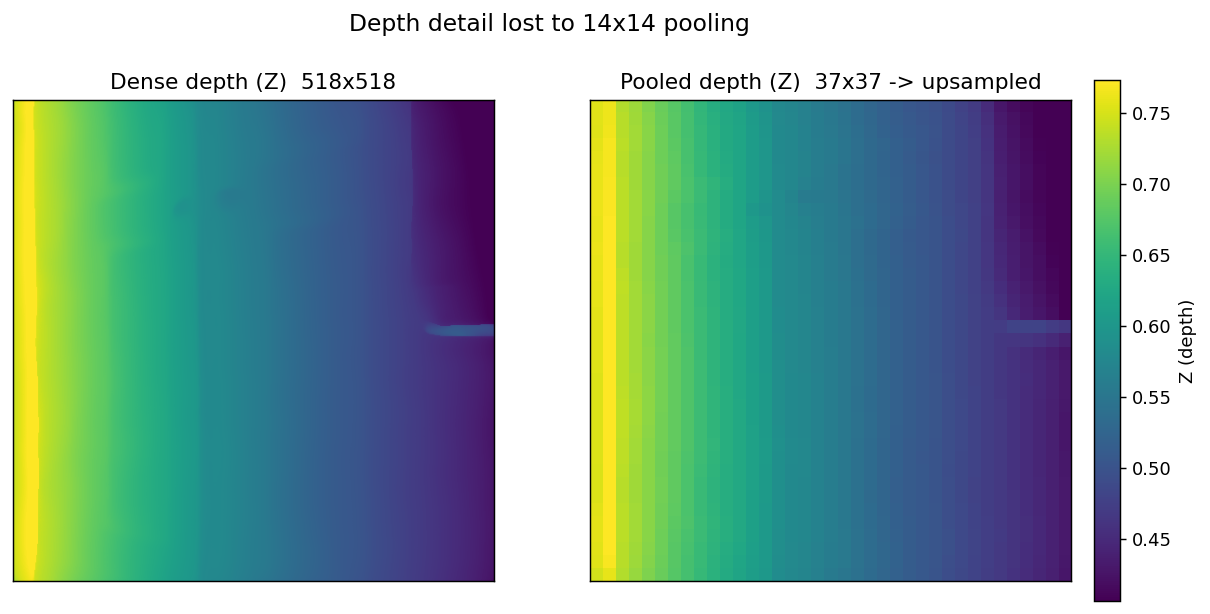
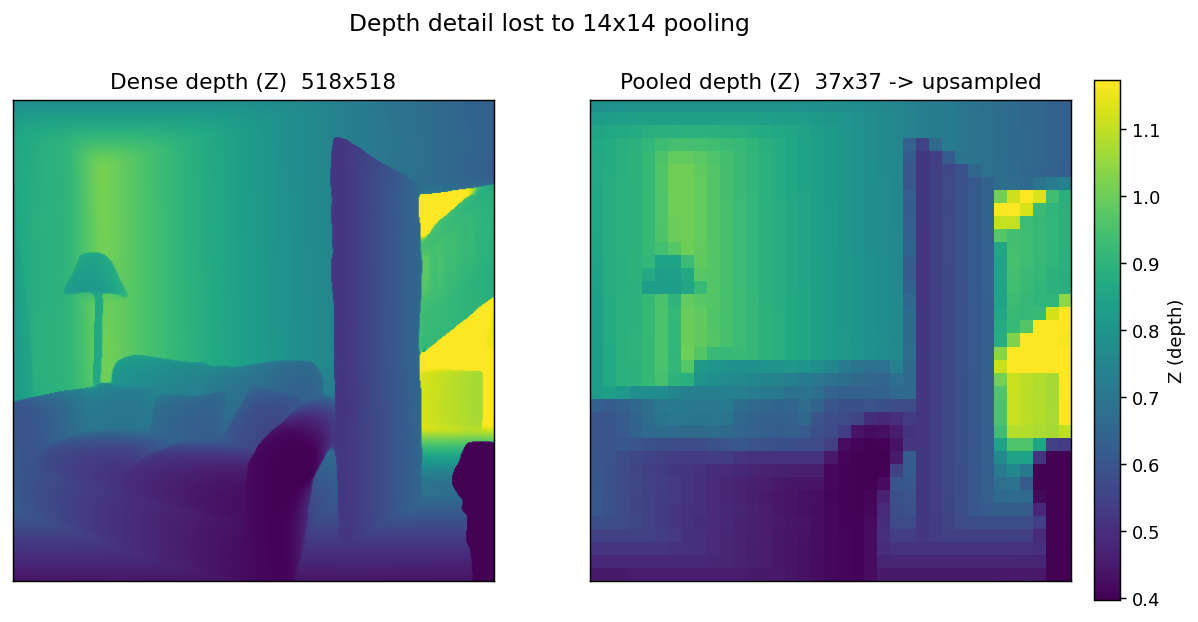
3D-48: regenerate WP-resolution figures on a real L1 room frame
- Use real L1 navigation frame episode_009/step_038 (living room with
  lamp, sofa, doorway) instead of the flat door fixture; pooling loss is
  now clearly visible at depth edges.
- dump script: add --dtype {bf16,fp32}. fp32 takes JAX's portable xla
  attention path so the dense map can be captured on CPU (no GPU/cuDNN),
  sidestepping the torch/jaxlib cuDNN conflict on the cluster.
- figure script: auto-highlight the most depth-variable patch cell in the
  grid-overlay and block-zoom figures.
- new sbatch dump_wp_l1_frame038 (kept for provenance).
- docs HTML: update stats to this frame (std up to 0.30 in depth, scene
  span ~2.1, pooled==mean to 8e-7) and provenance.

diff --git a/docs/3d48-vggt-wp-size.html b/docs/3d48-vggt-wp-size.html
@@ -103,7 +103,7 @@
       <span class="pill">issue&nbsp;<b>3D-48</b></span>
       <span class="pill">branch&nbsp;<b>lucasailerls/3d-48-…</b></span>
       <span class="pill">spun&nbsp;off&nbsp;<b>3D-53</b></span>
-      <span class="pill">real&nbsp;frame&nbsp;<b>H100 job 4861360</b></span>
+      <span class="pill">real&nbsp;frame&nbsp;<b>L1 ep_009/step_038</b></span>
       <span class="pill"><b>196×</b>&nbsp;point reduction</span>
     </div>
   </div>
@@ -134,7 +134,7 @@
       <li>Our wrapper then <b>average-pools each 14×14 patch block</b> into a single point <span class="arrow">→</span> <span class="hl-b">37×37×3</span>, a <b>196× point reduction</b>, and feeds that to R2Dreamer.</li>
       <li>So this is <b>not a VGGT bug and not a paper-misreading</b>. It is an <b>engineering subsample we added</b>, to keep the feature vector at <code>37·37·3 + 9 = 4116</code> dims.</li>
     </ul>
-    <p style="margin-bottom:0">The pooling is exactly the <code>adaptive_avg_pool</code> over each patch cell — we verified <code>pooled == 14×14&nbsp;mean</code> to <code>4e-7</code> on a real frame.</p>
+    <p style="margin-bottom:0">The pooling is exactly the <code>adaptive_avg_pool</code> over each patch cell — we verified <code>pooled == 14×14&nbsp;mean</code> to <code>8e-7</code> on a real frame.</p>
   </div>
 </section>
 
@@ -204,8 +204,8 @@ return {<span class="s">"world_points"</span>: world_points_out, <span class="s"
 
 <!-- ============================================================ -->
 <section id="visual">
-  <h2><span class="n">04</span>Visual evidence — on a real Habitat frame</h2>
-  <p>We ran the model once (H100, job 4861360) on a real Habitat observation and captured <em>both</em> resolutions from the same forward pass. Everything below is real data, not a mock-up.</p>
+  <h2><span class="n">04</span>Visual evidence — on a real L1 frame</h2>
+  <p>We ran the model on a real L1 navigation frame (the chair-only HM3D house, <code>episode_009/step_038</code> — a living room with a lamp, sofa, and a doorway to a brighter room) and captured <em>both</em> resolutions from the same forward pass. Everything below is real data, not a mock-up.</p>
 
   <figure>
     <img src="images/3d48/fig_grid_overlay.png" alt="Input RGB with 37x37 patch grid overlay">
@@ -245,9 +245,9 @@ return {<span class="s">"world_points"</span>: world_points_out, <span class="s"
   <div class="stat-row">
     <div class="stat"><div class="v">3.22 MB</div><div class="l">dense, per frame</div></div>
     <div class="stat"><div class="v">16.4 KB</div><div class="l">pooled, per frame</div></div>
-    <div class="stat"><div class="v">4e-7</div><div class="l">max |pooled − block-mean|</div></div>
+    <div class="stat"><div class="v">8e-7</div><div class="l">max |pooled − block-mean|</div></div>
   </div>
-  <p><b>How much signal is actually lost?</b> Within each 14×14 cell the XYZ standard deviation averages <code>≈0.008</code> (X,Y) and <code>0.003</code> (Z), but spikes to <code>0.036</code> at edges — against a scene that spans only ~1.4 units. So pooling is near-lossless on flat surfaces and lossy precisely at object boundaries and depth steps (Figs 3, 5). The <b>3.22 MB → 16.4 KB</b> gap is also why naively storing dense WP would blow up the offline buffer ~196× — the trade-off tracked in <b>3D-53</b>.</p>
+  <p><b>How much signal is actually lost?</b> Within each 14×14 cell the XYZ standard deviation averages <code>≈0.013</code> (X), <code>0.010</code> (Y), <code>0.016</code> (Z), but spikes to <code>0.30</code> in depth at edges — against a scene that spans ~2.1 units. So pooling is near-lossless on flat surfaces and lossy precisely at object boundaries and depth steps like the doorway (Figs 3, 5). The <b>3.22 MB → 16.4 KB</b> gap is also why naively storing dense WP would blow up the offline buffer ~196× — the trade-off tracked in <b>3D-53</b>.</p>
 </section>
 
 <!-- ============================================================ -->
@@ -307,7 +307,7 @@ return {<span class="s">"world_points"</span>: world_points_out, <span class="s"
 </section>
 
 <footer><div>
-  3D-48 · VGGT WP size reconciliation · evidence on real Habitat frame (H100 job 4861360) · checkpoint <code>lch01/StreamVGGT</code> · branch <code>lucasailerls/3d-48-fix-vggt-wp-input-size</code>. Related: 3D-24/25/26/46 (WP/CP path), 3D-52 (MLP encoder), 3D-53 (full-res WP → CNN).
+  3D-48 · VGGT WP size reconciliation · evidence on real L1 frame (episode_009/step_038) · checkpoint <code>lch01/StreamVGGT</code> · branch <code>lucasailerls/3d-48-fix-vggt-wp-input-size</code>. Related: 3D-24/25/26/46 (WP/CP path), 3D-52 (MLP encoder), 3D-53 (full-res WP → CNN).
 </div></footer>
 
 </div>

diff --git a/visualizations/wp_dense_vs_pooled_figs.py b/visualizations/wp_dense_vs_pooled_figs.py
@@ -23,6 +23,19 @@ GRID = 37
 IMG = 518
 
 
+def _max_var_cell(dense: np.ndarray) -> tuple[int, int]:
+    """Patch cell (row, col) whose 14x14 block has the largest XYZ spread.
+
+    Highlighting an edge cell (rather than a flat one) makes the pooling
+    loss visible in the grid-overlay and block-zoom figures.
+    """
+    blocks = (dense.reshape(GRID, PATCH, GRID, PATCH, 3)
+              .transpose(0, 2, 1, 3, 4).reshape(GRID, GRID, PATCH * PATCH, 3))
+    std = blocks.std(axis=2).sum(axis=-1)  # (37, 37) total XYZ std per cell
+    r, c = np.unravel_index(int(std.argmax()), std.shape)
+    return int(r), int(c)
+
+
 def _pct_norm(a: np.ndarray, lo: float = 2.0, hi: float = 98.0) -> np.ndarray:
     """Per-channel percentile min-max normalise to [0, 1] for display."""
     out = np.empty_like(a, dtype=np.float32)
@@ -78,7 +91,7 @@ def fig_depth(dense, pooled, outdir: Path) -> None:
     plt.close(fig)
 
 
-def fig_grid_overlay(rgb_chw, outdir: Path) -> None:
+def fig_grid_overlay(rgb_chw, cell: tuple[int, int], outdir: Path) -> None:
     """Input RGB with the 37x37 patch grid overlaid; one cell highlighted."""
     rgb = np.transpose(rgb_chw, (1, 2, 0))  # HWC uint8
     fig, ax = plt.subplots(figsize=(7.5, 7.5))
@@ -86,8 +99,8 @@ def fig_grid_overlay(rgb_chw, outdir: Path) -> None:
     for i in range(GRID + 1):
         ax.axhline(i * PATCH - 0.5, color="white", lw=0.3, alpha=0.5)
         ax.axvline(i * PATCH - 0.5, color="white", lw=0.3, alpha=0.5)
-    # Highlight one cell (centre-ish) — all 14x14 = 196 pixels -> 1 point.
-    r, c = 18, 18
+    # Highlight the most depth-variable cell — all 14x14 = 196 pixels -> 1 point.
+    r, c = cell
     ax.add_patch(plt.Rectangle((c * PATCH - 0.5, r * PATCH - 0.5), PATCH, PATCH,
                                fill=False, edgecolor="red", lw=2.0))
     ax.set_title(f"Input RGB {IMG}x{IMG} with {GRID}x{GRID} patch grid\n"
@@ -121,9 +134,9 @@ def fig_pointcloud(dense, pooled, outdir: Path) -> None:
     plt.close(fig)
 
 
-def fig_block_zoom(dense, pooled, outdir: Path) -> None:
+def fig_block_zoom(dense, pooled, cell: tuple[int, int], outdir: Path) -> None:
     """Zoom one 14x14 dense block and show the single pooled value it becomes."""
-    r, c = 18, 18
+    r, c = cell
     block = dense[r * PATCH:(r + 1) * PATCH, c * PATCH:(c + 1) * PATCH, :]
     mean_pt = block.reshape(-1, 3).mean(0)
     pooled_pt = pooled[r, c]
@@ -155,12 +168,14 @@ def main() -> None:
     rgb = d["input_rgb"]                 # (3, 518, 518) uint8
     args.outdir.mkdir(parents=True, exist_ok=True)
 
-    print(f"dense {dense.shape}  pooled {pooled.shape}  rgb {rgb.shape}")
+    cell = _max_var_cell(dense)
+    print(f"dense {dense.shape}  pooled {pooled.shape}  rgb {rgb.shape}  "
+          f"highlight cell {cell}")
     fig_xyz_image(dense, pooled, args.outdir)
     fig_depth(dense, pooled, args.outdir)
-    fig_grid_overlay(rgb, args.outdir)
+    fig_grid_overlay(rgb, cell, args.outdir)
     fig_pointcloud(dense, pooled, args.outdir)
-    fig_block_zoom(dense, pooled, args.outdir)
+    fig_block_zoom(dense, pooled, cell, args.outdir)
     print(f"Wrote figures to {args.outdir}")
 
 

diff --git a/scripts/vggt/dump_wp_dense_vs_pooled.py b/scripts/vggt/dump_wp_dense_vs_pooled.py
@@ -37,11 +37,17 @@ def main() -> None:
     p.add_argument("--frame-index", type=int, default=0)
     p.add_argument("--out", required=True, type=Path)
     p.add_argument("--device", default="cuda")
+    p.add_argument("--dtype", default="bf16", choices=["bf16", "fp32"],
+                   help="fp32 forces the XLA attention path (CPU-capable); "
+                        "bf16 uses cuDNN flash attention (GPU only).")
     args = p.parse_args()
+
+    import jax.numpy as jnp
+    dtype = {"bf16": jnp.bfloat16, "fp32": jnp.float32}[args.dtype]
 
     rgb = _load_frame(args.frames, args.frame_index)  # (3, 518, 518) uint8
 
-    ext = JAXVGGTFeatureExtractor(device=args.device)
+    ext = JAXVGGTFeatureExtractor(device=args.device, dtype=dtype)
     ext.reset()
     out = ext.extract(rgb, return_dense=True)
 
